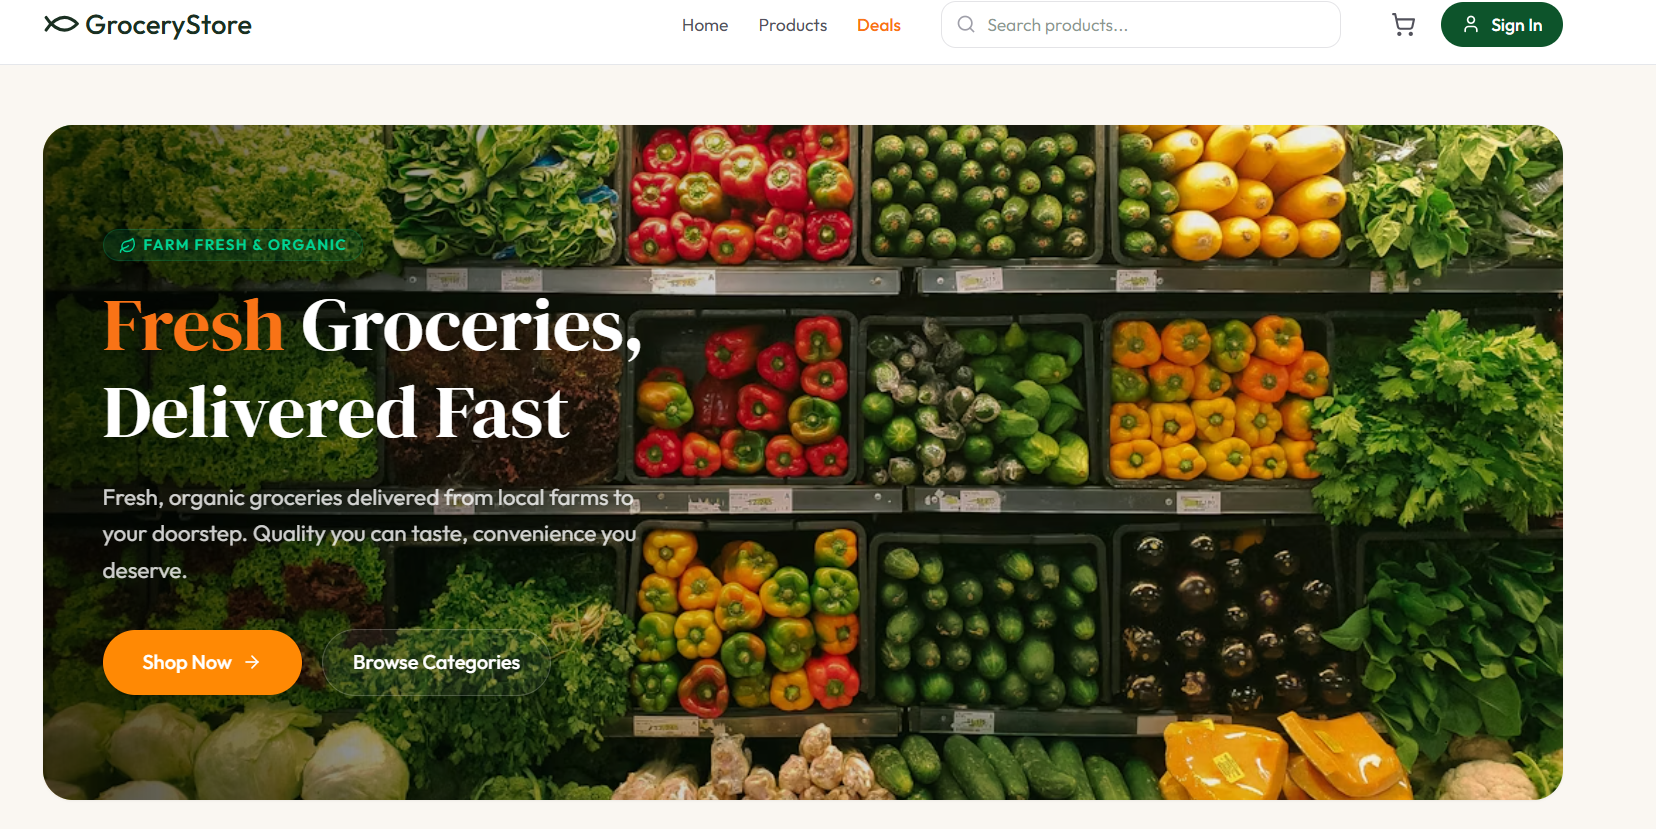
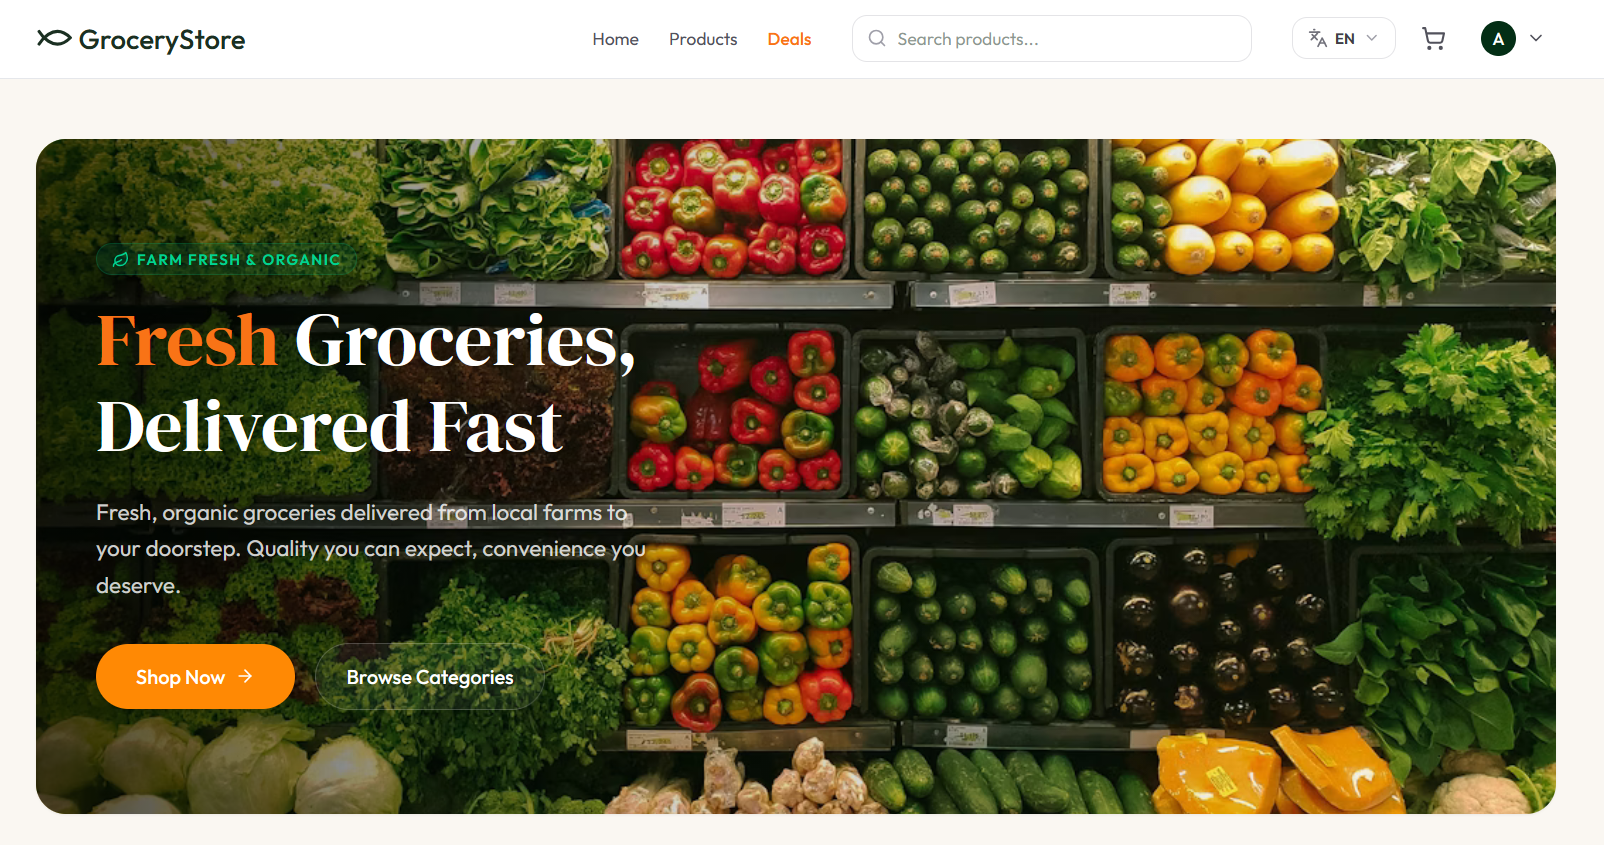
i18n v2

diff --git a/client/src/i18n.js b/client/src/i18n.js
@@ -267,11 +267,24 @@ i18n
     },
   });
 
+// Đồng bộ thuộc tính lang của <html> để CSS chọn đúng font cho từng ngôn ngữ:
+// tiếng Anh -> Outfit, tiếng Việt -> Inter.
+const syncHtmlLanguage = () => {
+  if (typeof document === "undefined") return;
+  const isVietnamese = i18n.language?.toLowerCase().startsWith("vi");
+  document.documentElement.lang = isVietnamese ? "vi" : "en";
+};
+
 // Persist the selected language so switching survives page reloads.
 i18n.on("languageChanged", (lng) => {
   if (typeof window !== "undefined") {
     window.localStorage.setItem(STORAGE_KEY, lng);
   }
+  syncHtmlLanguage();
 });
+
+// Đảm bảo áp dụng đúng font ngay trên lần tải đầu tiên (event init có thể chạy
+// trước khi listener phía trên được đăng ký).
+syncHtmlLanguage();
 
 export default i18n;

diff --git a/client/src/index.css b/client/src/index.css
@@ -1,4 +1,4 @@
-@import url("https://fonts.googleapis.com/css2?family=Outfit:wght@100..900&family=DM+Serif+Display:ital@0;1&display=swap");
+@import url("https://fonts.googleapis.com/css2?family=Inter:wght@100..900&family=Outfit:wght@100..900&family=DM+Serif+Display:ital@0;1&display=swap");
 @import "tailwindcss";
 
 @theme {
@@ -16,8 +16,13 @@
   --color-app-error: #ef4444;
   --color-app-warning: #f59e0b;
 
-  --font-sans: "Outfit", sans-serif;
+  --font-sans: "Outfit", ui-sans-serif, system-ui, sans-serif;
   --font-serif: "DM Serif Display", serif;
+}
+
+/* Font theo ngôn ngữ: tiếng Anh (mặc định) dùng Outfit, tiếng Việt dùng Inter */
+html[lang^="vi"] {
+  --font-sans: "Inter", ui-sans-serif, system-ui, sans-serif;
 }
 
 body {
